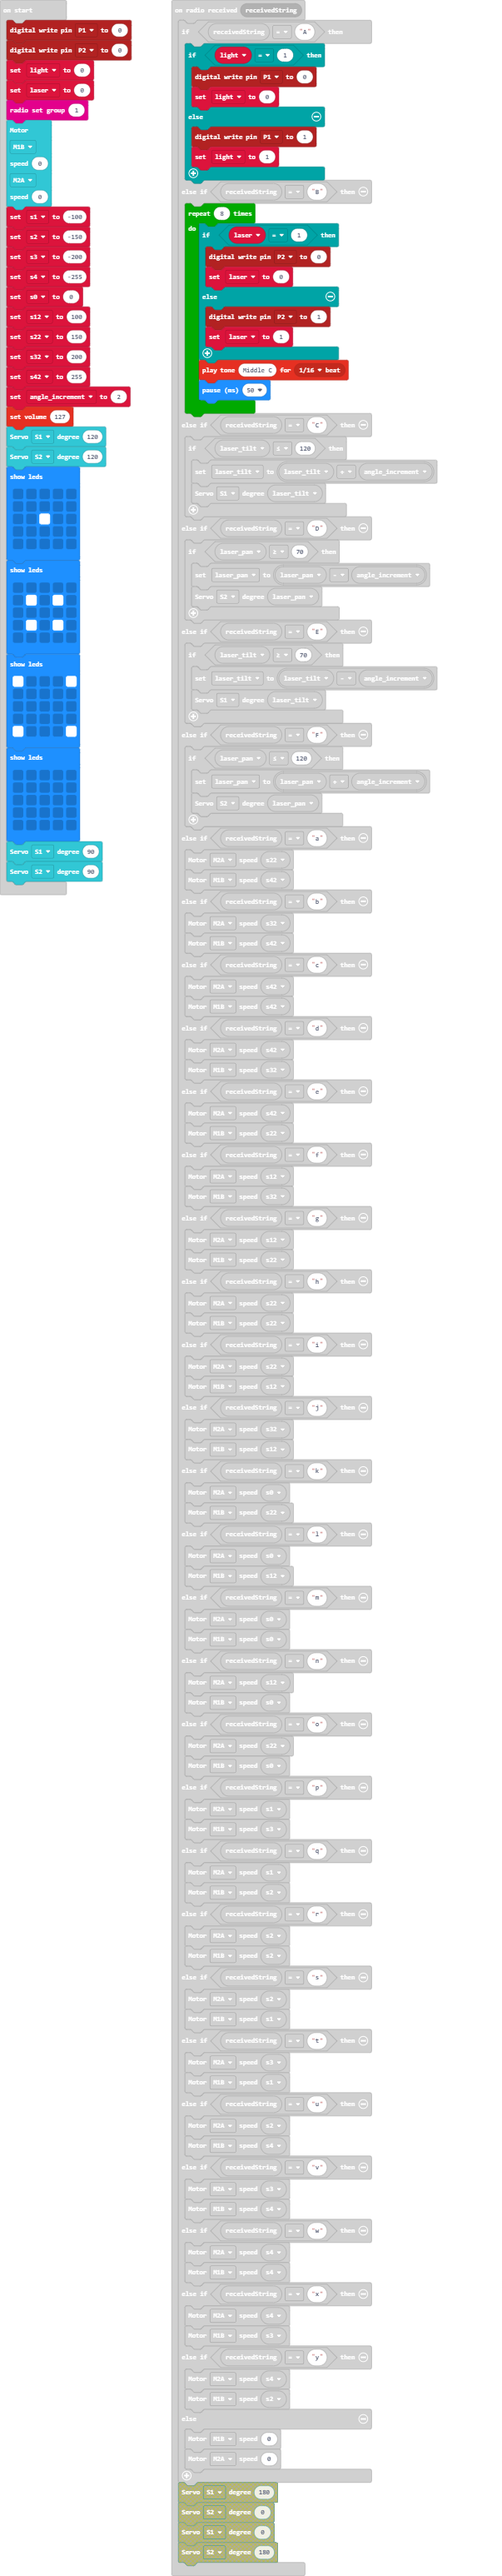
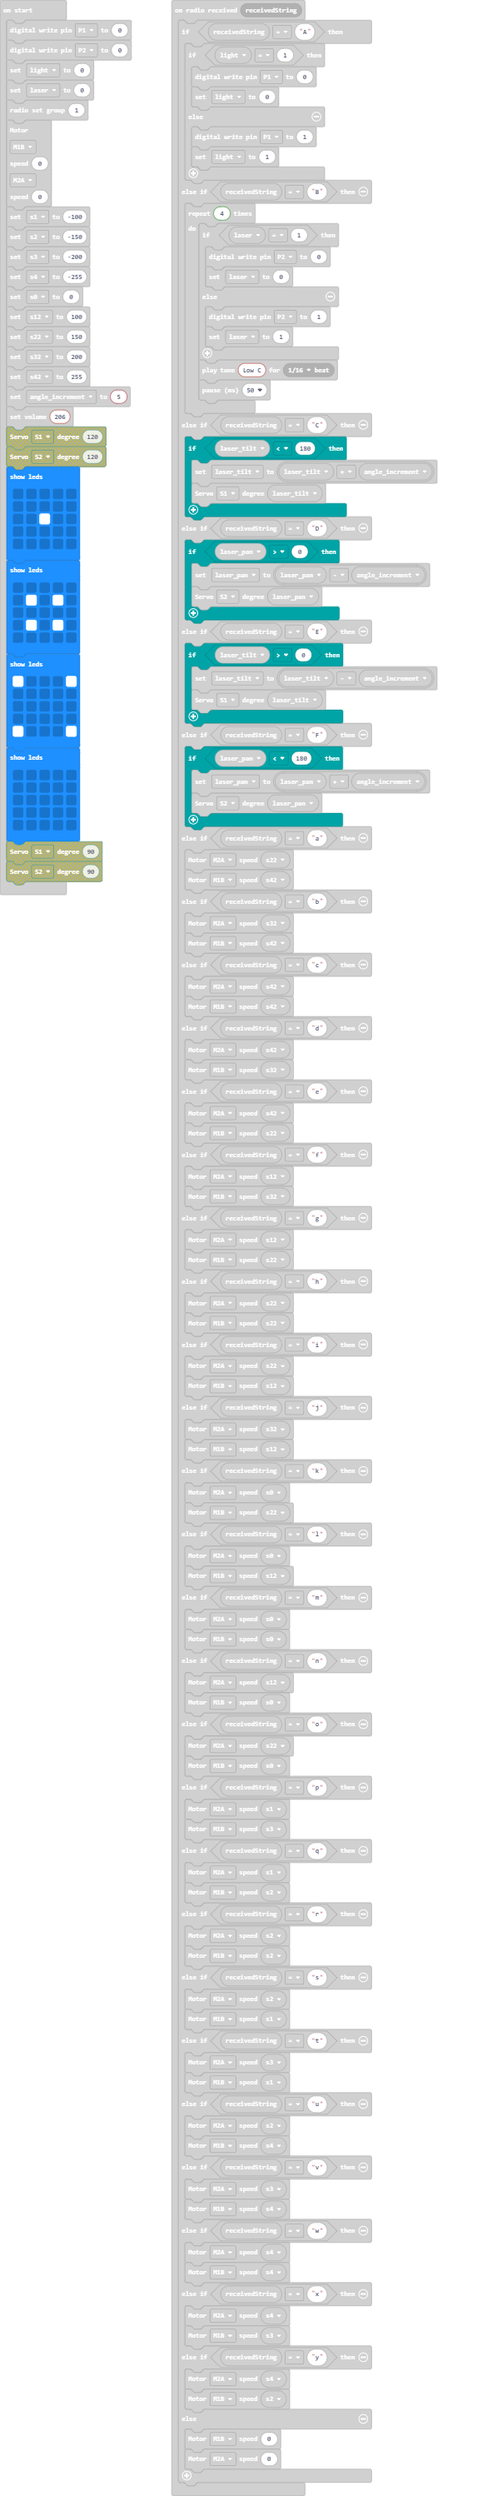
Clean-up.

Changed region(s): [[0.3582, 0.0, 0.8955, 0.776], [0.3284, 0.8071, 0.7463, 1.0], [0.0, 0.0, 0.2687, 0.3725]]

diff --git a/main.ts b/main.ts
@@ -8,7 +8,7 @@ radio.onReceivedString(function (receivedString) {
             light2 = 1
         }
     } else if (receivedString == "B") {
-        for (let index = 0; index < 8; index++) {
+        for (let index = 0; index < 4; index++) {
             if (laser == 1) {
                 pins.digitalWritePin(DigitalPin.P2, 0)
                 laser = 0
@@ -16,26 +16,26 @@ radio.onReceivedString(function (receivedString) {
                 pins.digitalWritePin(DigitalPin.P2, 1)
                 laser = 1
             }
-            music.playTone(262, music.beat(BeatFraction.Sixteenth))
+            music.playTone(131, music.beat(BeatFraction.Sixteenth))
             basic.pause(50)
         }
     } else if (receivedString == "C") {
-        if (laser_tilt <= 120) {
+        if (laser_tilt < 180) {
             laser_tilt = laser_tilt + angle_increment
             robotbit.Servo(robotbit.Servos.S1, laser_tilt)
         }
     } else if (receivedString == "D") {
-        if (laser_pan >= 70) {
+        if (laser_pan > 0) {
             laser_pan = laser_pan - angle_increment
             robotbit.Servo(robotbit.Servos.S2, laser_pan)
         }
     } else if (receivedString == "E") {
-        if (laser_tilt >= 70) {
+        if (laser_tilt > 0) {
             laser_tilt = laser_tilt - angle_increment
             robotbit.Servo(robotbit.Servos.S1, laser_tilt)
         }
     } else if (receivedString == "F") {
-        if (laser_pan <= 120) {
+        if (laser_pan < 180) {
             laser_pan = laser_pan + angle_increment
             robotbit.Servo(robotbit.Servos.S2, laser_pan)
         }
@@ -153,10 +153,8 @@ s12 = 100
 s22 = 150
 s32 = 200
 s42 = 255
-angle_increment = 2
-music.setVolume(127)
-robotbit.Servo(robotbit.Servos.S1, 120)
-robotbit.Servo(robotbit.Servos.S2, 120)
+angle_increment = 5
+music.setVolume(206)
 basic.showLeds(`
     . . . . .
     . . . . .
@@ -185,8 +183,6 @@ basic.showLeds(`
     . . . . .
     . . . . .
     `)
-robotbit.Servo(robotbit.Servos.S1, 90)
-robotbit.Servo(robotbit.Servos.S2, 90)
 basic.forever(function () {
 	
 })
